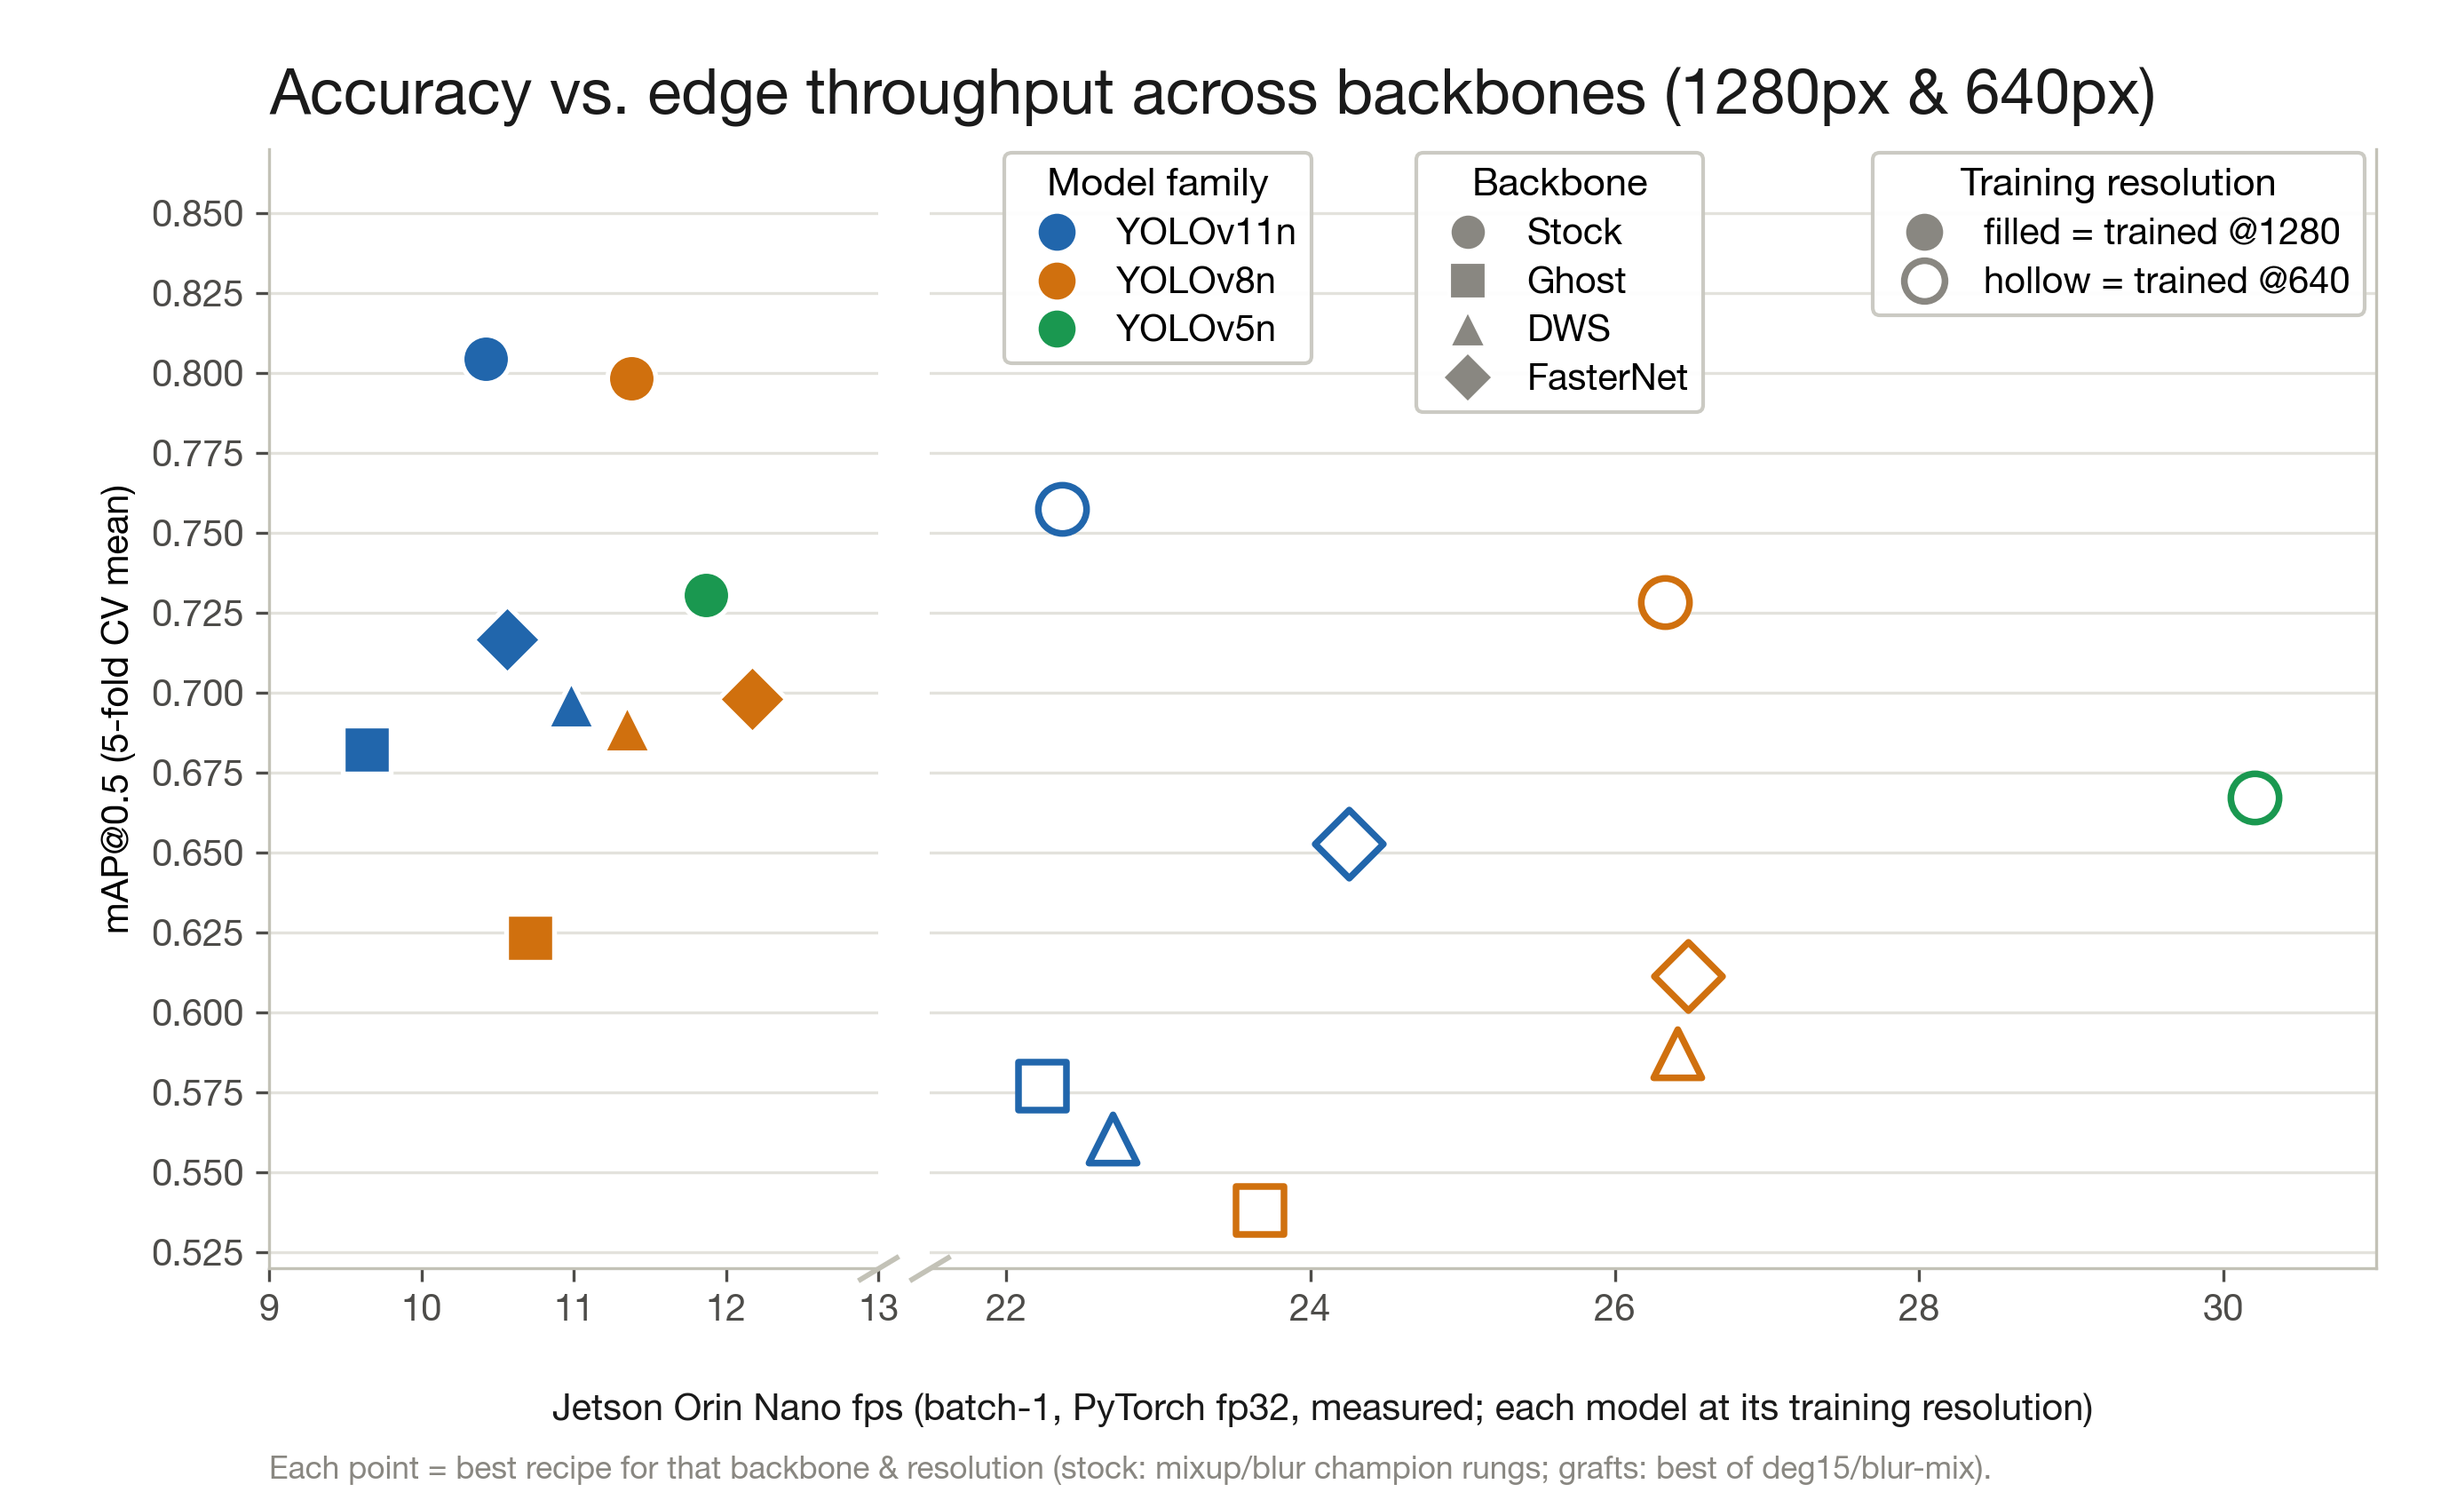
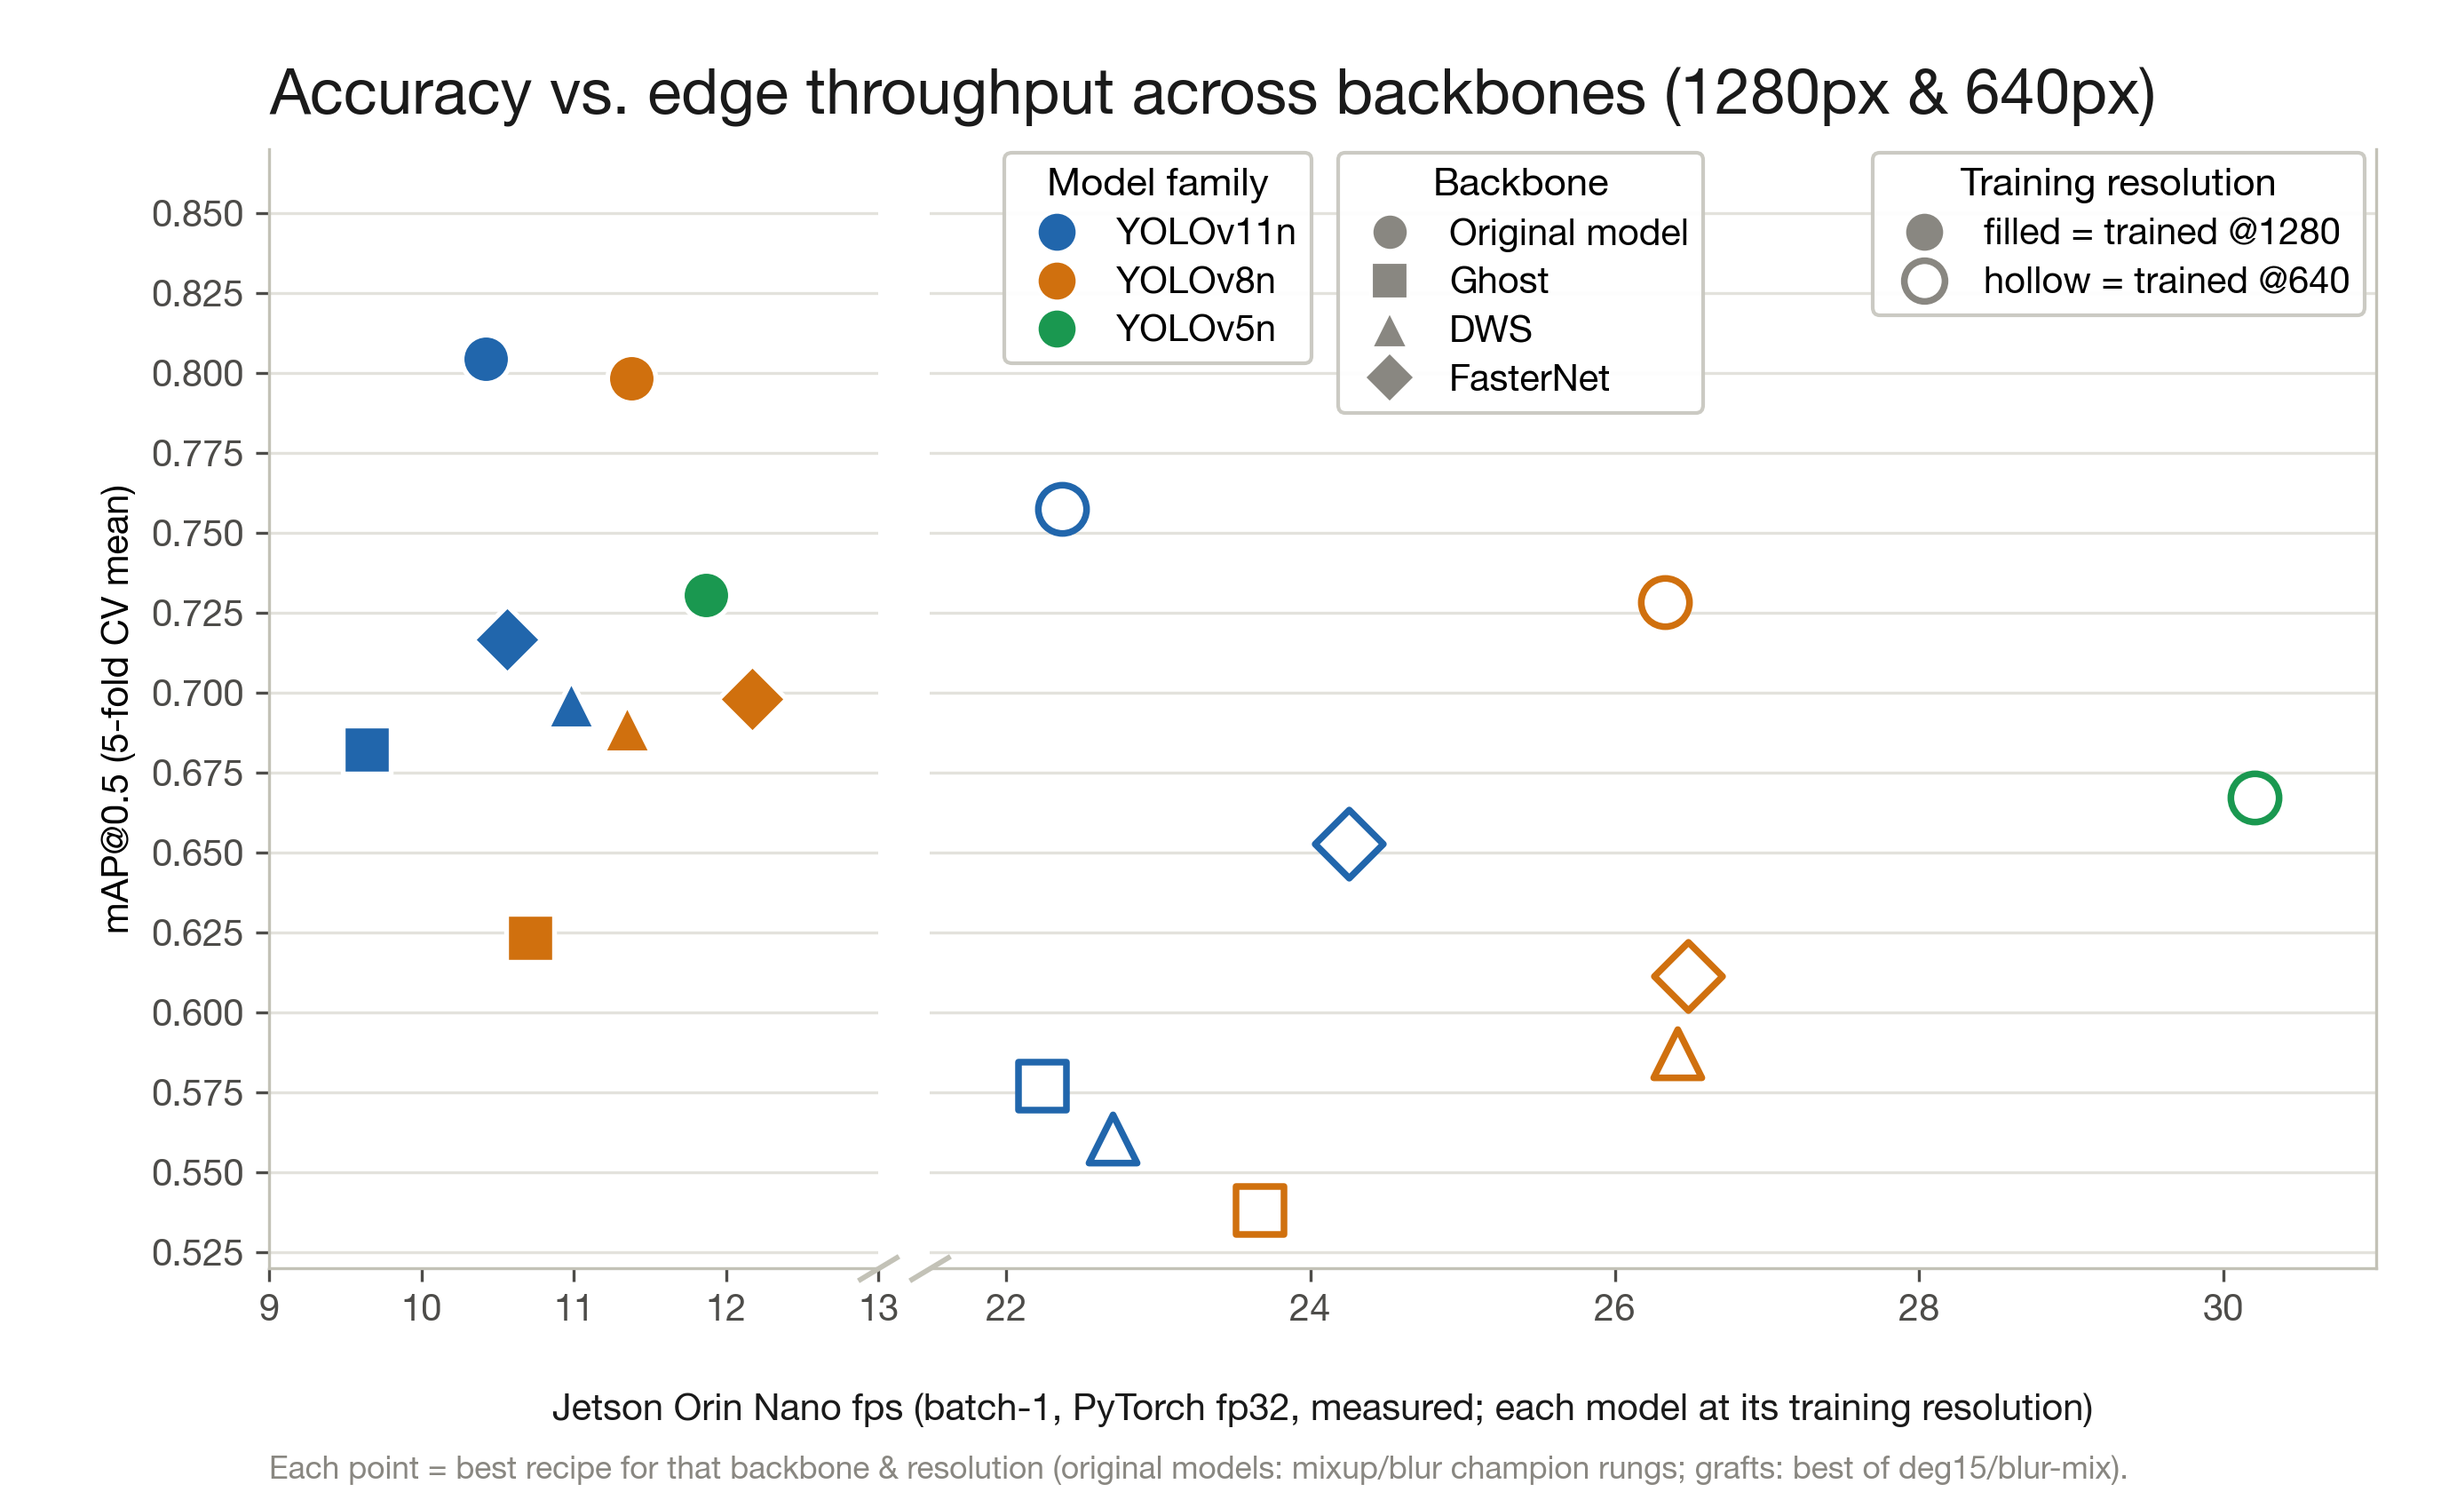
fig 13: rename 'Stock' -> 'Original model' in backbone legend

Changed region(s): [[0.5301, 0.0929, 0.686, 0.2786], [0.4365, 0.9595, 0.8731, 1.0]]

diff --git a/paper/poster/figs_src/gen_accuracy_vs_throughput_combined.py b/paper/poster/figs_src/gen_accuracy_vs_throughput_combined.py
@@ -40,7 +40,7 @@ BLUE, ORANGE, GREEN = "#2166ac", "#d0700e", "#1a9850"
 INK, INK2, MUTED, GRID = "#1a1a1a", "#4d4c49", "#898781", "#e3e2dc"
 
 FAMILY_COLOR = {"YOLOv11n": BLUE, "YOLOv8n": ORANGE, "YOLOv5n": GREEN}
-BACKBONE_MARKER = {"Stock": "o", "Ghost": "s", "DWS": "^", "FasterNet": "D"}
+BACKBONE_MARKER = {"Original model": "o", "Ghost": "s", "DWS": "^", "FasterNet": "D"}
 
 
 def ed_map(cond):
@@ -55,9 +55,9 @@ def fps(model_key, res):
 # key rule: best recipe per backbone x resolution (see module docstring)
 POINTS = [
     # 1280px-trained (filled)
-    ("YOLOv11n", "Stock", "mix15_1280", "v11n_obb", 1280),      # 0.804 champion
-    ("YOLOv8n", "Stock", "v8mix15_1280", "v8n_obb_champ", 1280),  # 0.798 (p20)
-    ("YOLOv5n", "Stock", "v5champ", "v5n", 1280),
+    ("YOLOv11n", "Original model", "mix15_1280", "v11n_obb", 1280),      # 0.804 champion
+    ("YOLOv8n", "Original model", "v8mix15_1280", "v8n_obb_champ", 1280),  # 0.798 (p20)
+    ("YOLOv5n", "Original model", "v5champ", "v5n", 1280),
     ("YOLOv11n", "Ghost", "ghost_deg15", "v11_ghost", 1280),
     ("YOLOv8n", "Ghost", "v8ghost_deg15", "v8_ghost", 1280),
     ("YOLOv11n", "DWS", "dws_deg15", "v11_dws", 1280),
@@ -65,9 +65,9 @@ POINTS = [
     ("YOLOv11n", "FasterNet", "fnet_deg15", "v11_fnet", 1280),
     ("YOLOv8n", "FasterNet", "v8fnet_deg15", "v8_fnet", 1280),
     # 640px-trained (hollow); v8 grafts from phase 22 (2026-07-29)
-    ("YOLOv11n", "Stock", "blurmix_640", "v11n_obb", 640),      # 0.757 640-champion
-    ("YOLOv8n", "Stock", "v8deg15_640", "v8n_obb_champ", 640),  # best/only v8@640
-    ("YOLOv5n", "Stock", "v5champ_640", "v5n", 640),
+    ("YOLOv11n", "Original model", "blurmix_640", "v11n_obb", 640),      # 0.757 640-champion
+    ("YOLOv8n", "Original model", "v8deg15_640", "v8n_obb_champ", 640),  # best/only v8@640
+    ("YOLOv5n", "Original model", "v5champ_640", "v5n", 640),
     ("YOLOv11n", "Ghost", "ghost_640", "v11_ghost", 640),           # deg15 > blurmix
     ("YOLOv8n", "Ghost", "v8ghost_640", "v8_ghost", 640),           # deg15 > blurmix
     ("YOLOv11n", "DWS", "dws_blurmix640", "v11_dws", 640),          # blurmix > deg15
@@ -149,7 +149,7 @@ axR.plot([0], [0], transform=axR.transAxes, **break_kw)
 
 fig.text(0.11, 0.915, "Accuracy vs. edge throughput across backbones (1280px & 640px)",
           ha="left", va="bottom", fontsize=17, fontweight="bold", color=INK)
-fig.text(0.11, 0.005, "Each point = best recipe for that backbone & resolution (stock: mixup/blur champion rungs; grafts: best of deg15/blur-mix).",
+fig.text(0.11, 0.005, "Each point = best recipe for that backbone & resolution (original models: mixup/blur champion rungs; grafts: best of deg15/blur-mix).",
           ha="left", va="bottom", fontsize=8.5, style="italic", color=MUTED)
 
 for ext in ("png", "pdf"):
